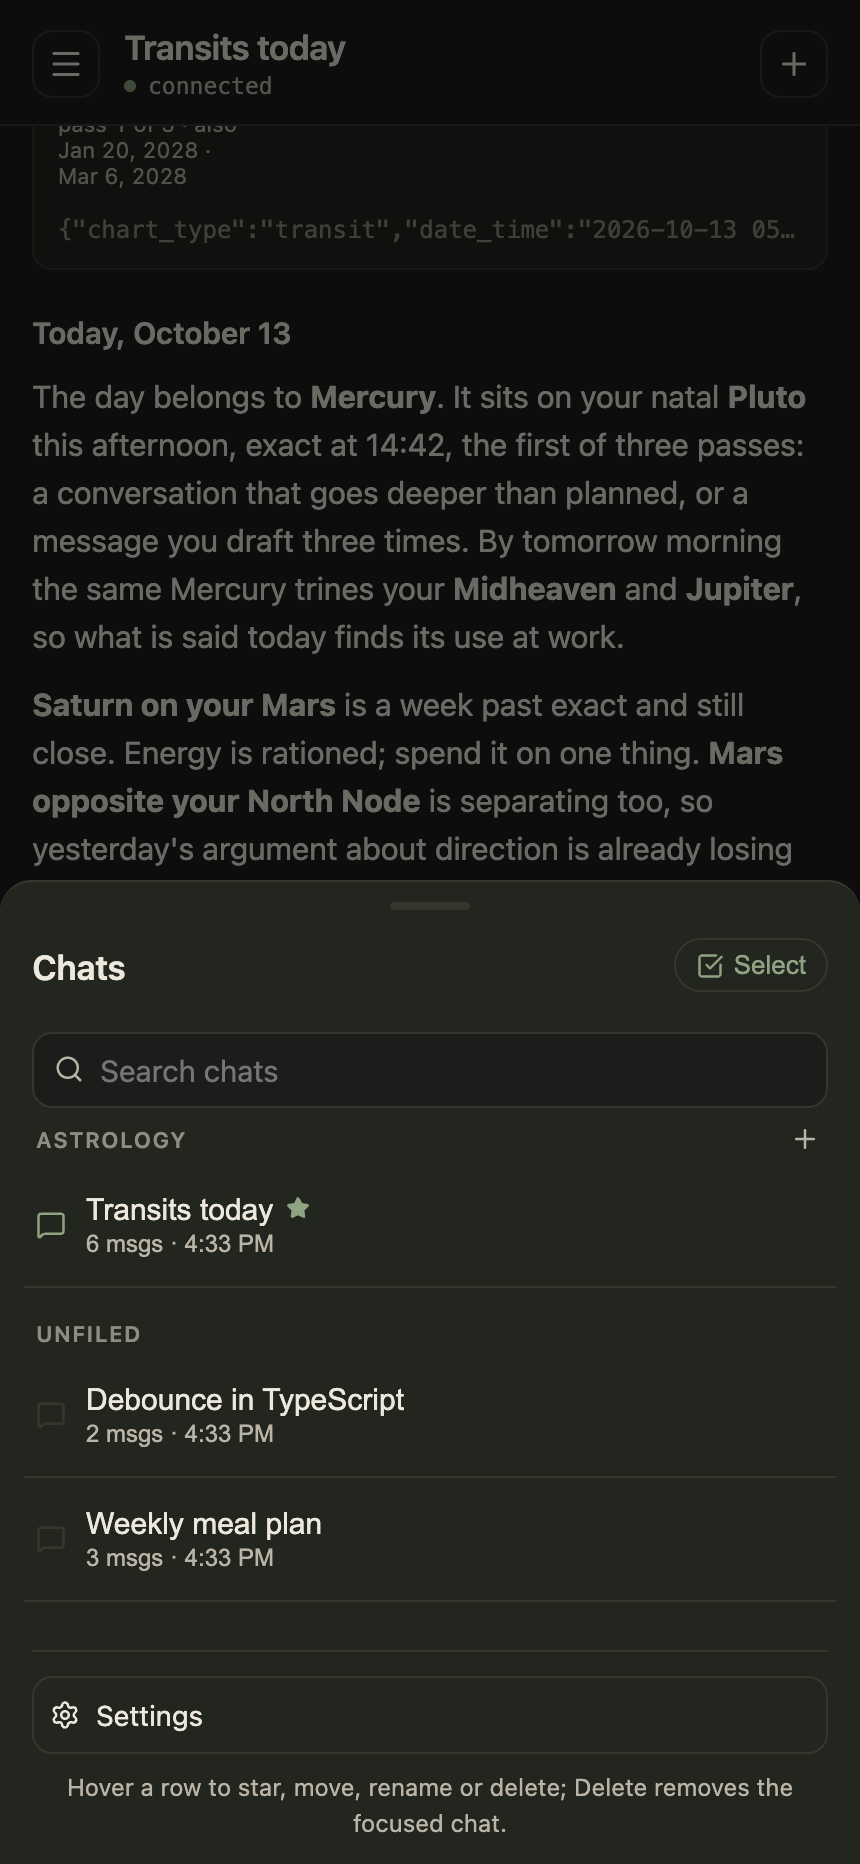
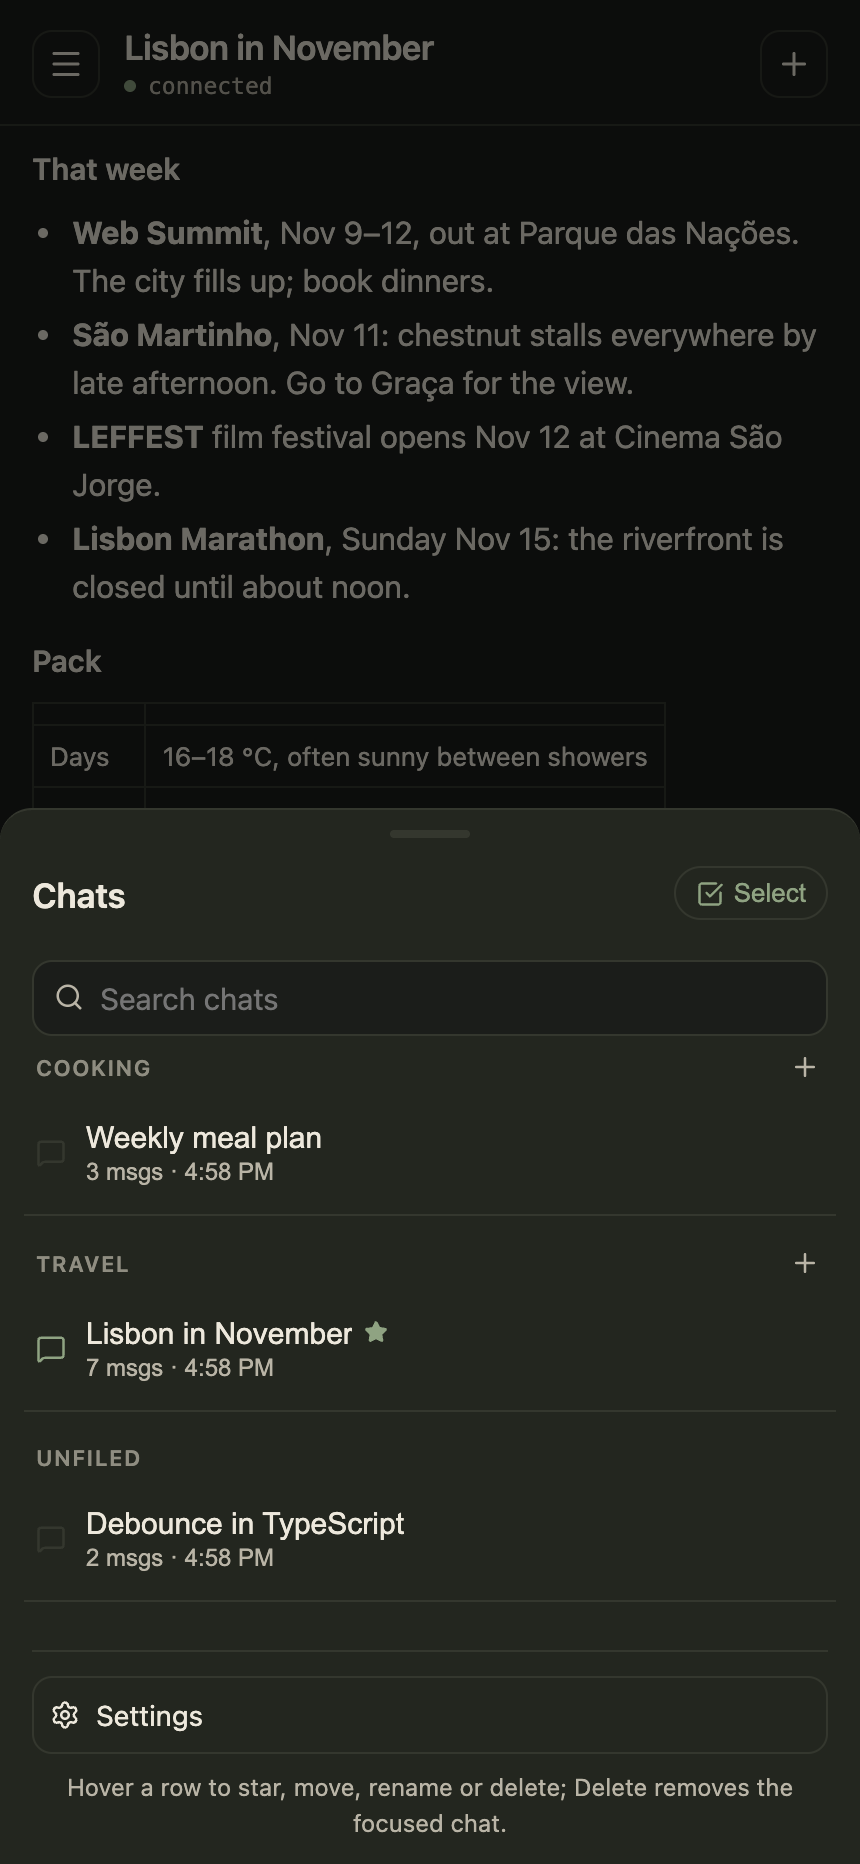
docs: README gallery shows chats, tools, tables, code and memories

Changed region(s): [[0.0, 0.0622, 1.0, 0.8401], [0.1512, 0.0, 0.514, 0.0311], [0.4233, 0.6845, 0.4535, 0.7157]]

diff --git a/scripts/seed-demo.ts b/scripts/seed-demo.ts
@@ -7,9 +7,9 @@ import type { Message } from '../src/types.ts'
 
 /**
  * Fills the development database (.data-dev, the one `npm run dev` uses)
- * with demo chats so the app can be screenshotted: a chat with a tool call
- * that draws a chart, one with a table, one with code, and a few memories
- * in a memory file of its own. Run with `npm run seed:demo`, then start the
+ * with demo chats so the app can be screenshotted: a chat with web-search
+ * tool calls, one with a table, one with code, and a few memories in a
+ * memory file of its own. Run with `npm run seed:demo`, then start the
  * dev server pointed at that memory file:
  *
  *   MEMORY_DB=$PWD/.data-dev/memory.sqlite npm run dev
@@ -35,8 +35,8 @@ const chat = (name: string, messages: Message[], extra: { starred?: boolean; fol
   return c.id
 }
 
-const astrology = store.createFolder('Astrology')
 
+const cooking = store.createFolder('Cooking')
 chat('Weekly meal plan', [
   user('u1', 'Plan five weeknight dinners around chicken, salmon and tofu, about 600 kcal each, with a shopping list.'),
   thinking('r1', 'Five dinners, three proteins, roughly 600 kcal. Keep the sides simple and reuse ingredients so the shopping list stays short.', '3.1'),
@@ -58,7 +58,7 @@ chat('Weekly meal plan', [
 - Soy sauce, miso, sesame oil, ginger, garlic
 
 Want me to swap one night for something vegetarian besides the tofu?`, 24.6, 1320, 410, 95),
-])
+], { folderId: cooking.id })
 
 chat('Debounce in TypeScript', [
   user('u1', 'Write a typed debounce with a cancel method.'),
@@ -80,45 +80,54 @@ export function debounce<A extends unknown[]>(fn: (...args: A) => void, waitMs: 
 The generic \`A\` keeps the arguments typed, and \`cancel\` clears the pending timer and nulls it so a second cancel is harmless.`, 11.2, 640, 210, 0),
 ], { folderId: null })
 
-const transit = fs.readFileSync(path.resolve('src/test/fixtures/transit-chart.json'), 'utf8')
-const todayId = chat('Transits today', [
-  user('u1', 'What are my transits today?'),
-  thinking('r1', 'The person wants today’s transits over the natal chart. Birth data is in memory: 1990-06-15 14:30, New York. Call create_transit_chart, then read the aspects by weight: Saturn on Mars is the backdrop, the Mercury contacts the day’s events.', '4.2'),
+const travel = store.createFolder('Travel')
+const lisbonId = chat('Lisbon in November', [
+  user('u1', "I'm in Lisbon the week of Nov 9. What's on that week, and what should I pack?"),
+  thinking('r1', 'Two parts: what is happening in Lisbon that week, and the weather. Search for each, then answer briefly, since this person prefers short answers with the reasoning shown. The cooking memory is not relevant here.', '3.8'),
   {
-    id: 't1', role: 'tool', name: 'create_transit_chart', plugin: 'mcp/astrology-v2',
-    args: { date_time: '1990-06-15 14:30', city: 'New York', state: 'NY', country: 'USA' },
-    output: transit,
-    readings: {
-      'Mercury|Conjunction|Pluto': 'A conversation that goes deeper than planned; one message drafted three times.',
-      'Saturn|Conjunction|Mars': 'Effort rationed. A week past exact, still asking you to pace yourself.',
-      'Mars|Opposition|True North Node': 'Yesterday’s argument about direction, cooling.',
-      'Mercury|Trine|MC': 'What you say today is useful at work tomorrow.',
-      'Mercury|Trine|Jupiter': 'A generous reading of the news; a mentor’s word lands.',
-      'Uranus|Conjunction|Mercury': 'The long restlessness of mind: new tools, new names for old things.',
-      'Mercury|Trine|Chiron': 'Talking about the old wound makes it a skill.',
-      'Mercury|Sextile|Neptune': 'Daydreams with a thread of plan in them.',
-    },
+    id: 't1', role: 'tool', name: 'web_search', plugin: 'mcp/web-search',
+    args: { query: 'Lisbon events November 9-15 2026', max_results: 5 },
+    output: [
+      '1. Web Summit 2026 — Lisbon, 9–12 November. Altice Arena and FIL, Parque das Nações. Tickets and side events across the city.',
+      '2. Lisbon Film Festival (LEFFEST), 12–22 November. Screenings at Cinema São Jorge and Nimas.',
+      '3. São Martinho, 11 November: roasted chestnuts and água-pé at street stalls, magustos in Alfama and Graça.',
+      '4. Time Out Market: autumn chef residencies through November.',
+      '5. Lisbon Marathon and Half, 15 November: road closures along the river from early morning.',
+    ].join('\n'),
   },
-  reply('a1', `### Today, October 13
+  {
+    id: 't2', role: 'tool', name: 'web_search', plugin: 'mcp/web-search',
+    args: { query: 'Lisbon weather mid November average', max_results: 3 },
+    output: '1. Lisbon in November: highs around 18 °C (64 °F), lows around 11 °C (52 °F), about 11 rainy days in the month. Mostly mild with showers; sunny spells between fronts.\n2. Sunset about 17:20. Humidity high; evenings feel cooler by the river.',
+  },
+  reply('a1', `### That week
 
-The day belongs to **Mercury**. It sits on your natal **Pluto** this afternoon, exact at 14:42, the first of three passes: a conversation that goes deeper than planned, or a message you draft three times. By tomorrow morning the same Mercury trines your **Midheaven** and **Jupiter**, so what is said today finds its use at work.
+- **Web Summit**, Nov 9–12, out at Parque das Nações. The city fills up; book dinners.
+- **São Martinho**, Nov 11: chestnut stalls everywhere by late afternoon. Go to Graça for the view.
+- **LEFFEST** film festival opens Nov 12 at Cinema São Jorge.
+- **Lisbon Marathon**, Sunday Nov 15: the riverfront is closed until about noon.
 
-**Saturn on your Mars** is a week past exact and still close. Energy is rationed; spend it on one thing. **Mars opposite your North Node** is separating too, so yesterday's argument about direction is already losing heat.
+### Pack
 
-The Moon is in Scorpio in your second house all day, near transiting Mercury: feelings about money and worth are close to the surface. Nothing needs deciding.
+| | |
+| --- | --- |
+| Days | 16–18 °C, often sunny between showers |
+| Nights | 10–12 °C, cooler by the river |
+| Rain | Likely on three or four of your days |
 
-*In one line:* say the true thing once, quietly, and go to bed early.`, 38.1, 7120, 910, 240),
-  user('u2', 'Is Thursday any good for the hard conversation?'),
-  reply('a2', `Thursday is better than today. By then Mercury has moved off your Pluto and is trining your Midheaven, so the conversation lands as clear rather than loaded. Avoid the afternoon of the 25th, when Mars squares your Pluto.`, 9.4, 7900, 160, 60),
-], { starred: true, folderId: astrology.id })
+A light rain jacket, one warm layer for evenings, and shoes with grip: the calçada is slippery when wet. No umbrella; the wind eats them.`, 21.4, 2860, 520, 140),
+  user('u2', 'Is the marathon going to block the way to Belém?'),
+  reply('a2', 'Yes, until around noon on the 15th. The course runs along Avenida da Índia and the river. Go to Belém on Saturday instead, or take the train from Cais do Sodré, which runs behind the closures.', 7.1, 3400, 110, 40),
+], { starred: true, folderId: travel.id })
+store.patch(lisbonId, { memory: true })
 
-store.setActive(todayId)
+store.setActive(lisbonId)
 
 // Memories are written by the lm-memory MCP server in real use; here the table is made by hand, in a file of its own.
 const memoryDb = new DatabaseSync(path.join(dir, 'memory.sqlite'))
 memoryDb.exec('CREATE TABLE IF NOT EXISTS memories (id TEXT PRIMARY KEY, text TEXT NOT NULL, created_at INTEGER NOT NULL, updated_at INTEGER NOT NULL)')
 const insert = memoryDb.prepare('INSERT INTO memories (id, text, created_at, updated_at) VALUES (?, ?, ?, ?)')
-;['Born June 15, 1990 at 14:30 in New York.', 'Prefers short answers with the reasoning shown.', 'Cooks on weeknights; no mushrooms.'].forEach((text, i) => insert.run(`demo-${i + 1}`, text, Date.now() - (3 - i) * 86_400_000, Date.now() - (3 - i) * 86_400_000))
+;['Prefers short answers with the reasoning shown.', 'Cooks on weeknights; no mushrooms.', 'Travelling to Lisbon the week of 9 November 2026.'].forEach((text, i) => insert.run(`demo-${i + 1}`, text, Date.now() - (3 - i) * 86_400_000, Date.now() - (3 - i) * 86_400_000))
 memoryDb.close()
 console.log(new Memories(path.join(dir, 'memory.sqlite')).list().length, 'memories')
 console.log(`seeded ${dir}`)

diff --git a/README.md b/README.md
@@ -11,23 +11,33 @@ third-party API.
 
 <table>
   <tr>
-    <td width="33%"><img src="docs/screenshots/thread-phone.png" alt="A chat with a tool call" /></td>
-    <td width="33%"><img src="docs/screenshots/wheel-phone.png" alt="A tool result drawn as a chart" /></td>
-    <td width="33%"><img src="docs/screenshots/reply-phone.png" alt="A reply with its stats" /></td>
+    <td width="33%"><img src="docs/screenshots/thread-phone.png" alt="A chat with tool calls" /></td>
+    <td width="33%"><img src="docs/screenshots/reasoning-phone.png" alt="The reasoning block open" /></td>
+    <td width="33%"><img src="docs/screenshots/tools-phone.png" alt="The reply written from the tool results" /></td>
   </tr>
   <tr>
-    <td><b>A chat.</b> The question, the model's thinking as a row that opens, and the tool it called.</td>
-    <td><b>A tool result, drawn.</b> An astrology chart comes back as a wheel with its transits tabled under it.</td>
+    <td><b>A chat.</b> The question, the model's thinking as a row, the MCP tools it called as cards, then the reply.</td>
+    <td><b>Reasoning.</b> Kept, not discarded: tap the row to read what the model thought.</td>
     <td><b>The reply.</b> Markdown, then what the turn cost: model, time, tokens per second, tokens in and out.</td>
   </tr>
   <tr>
-    <td><img src="docs/screenshots/reasoning-phone.png" alt="The reasoning block open" /></td>
+    <td><img src="docs/screenshots/table-phone.png" alt="A reply with a table" /></td>
+    <td><img src="docs/screenshots/code-phone.png" alt="A reply with code" /></td>
     <td><img src="docs/screenshots/chats-phone.png" alt="The chat list" /></td>
+  </tr>
+  <tr>
+    <td><b>Tables</b> and the rest of Markdown render as you would expect.</td>
+    <td><b>Code</b> comes with copy and save buttons.</td>
+    <td><b>Chats.</b> Folders, stars and search. Each chat can have its own reasoning level and memory setting.</td>
+  </tr>
+  <tr>
+    <td><img src="docs/screenshots/settings-phone.png" alt="Settings" /></td>
+    <td><img src="docs/screenshots/memories-phone.png" alt="Memories" /></td>
     <td></td>
   </tr>
   <tr>
-    <td><b>Reasoning.</b> Kept, not discarded: tap the row to read what the model thought.</td>
-    <td><b>Chats.</b> Folders, stars and search. Each chat can have its own reasoning level and memory setting.</td>
+    <td><b>Settings.</b> The LM Studio address and token, the model, reasoning, and how much history each message carries.</td>
+    <td><b>Memories.</b> What the model has learned about you, in a file you can read, edit and prune.</td>
     <td></td>
   </tr>
 </table>
@@ -48,8 +58,7 @@ npm run screenshots                                # another; needs Google Chrom
   reasoning, writing, or calling a tool.
 - **Reasoning shown, not discarded**, as a collapsible "Thought for 4.2s"
   block.
-- **MCP tool calls** rendered as cards with their output. An astrology chart
-  is drawn as a wheel, with its transits in a table.
+- **MCP tool calls** rendered as cards with their arguments and output.
 - **Conversations saved on your computer**, so they survive a closed tab or
   a locked phone and are shared across your devices. Folders, stars and
   search keep them in order.
